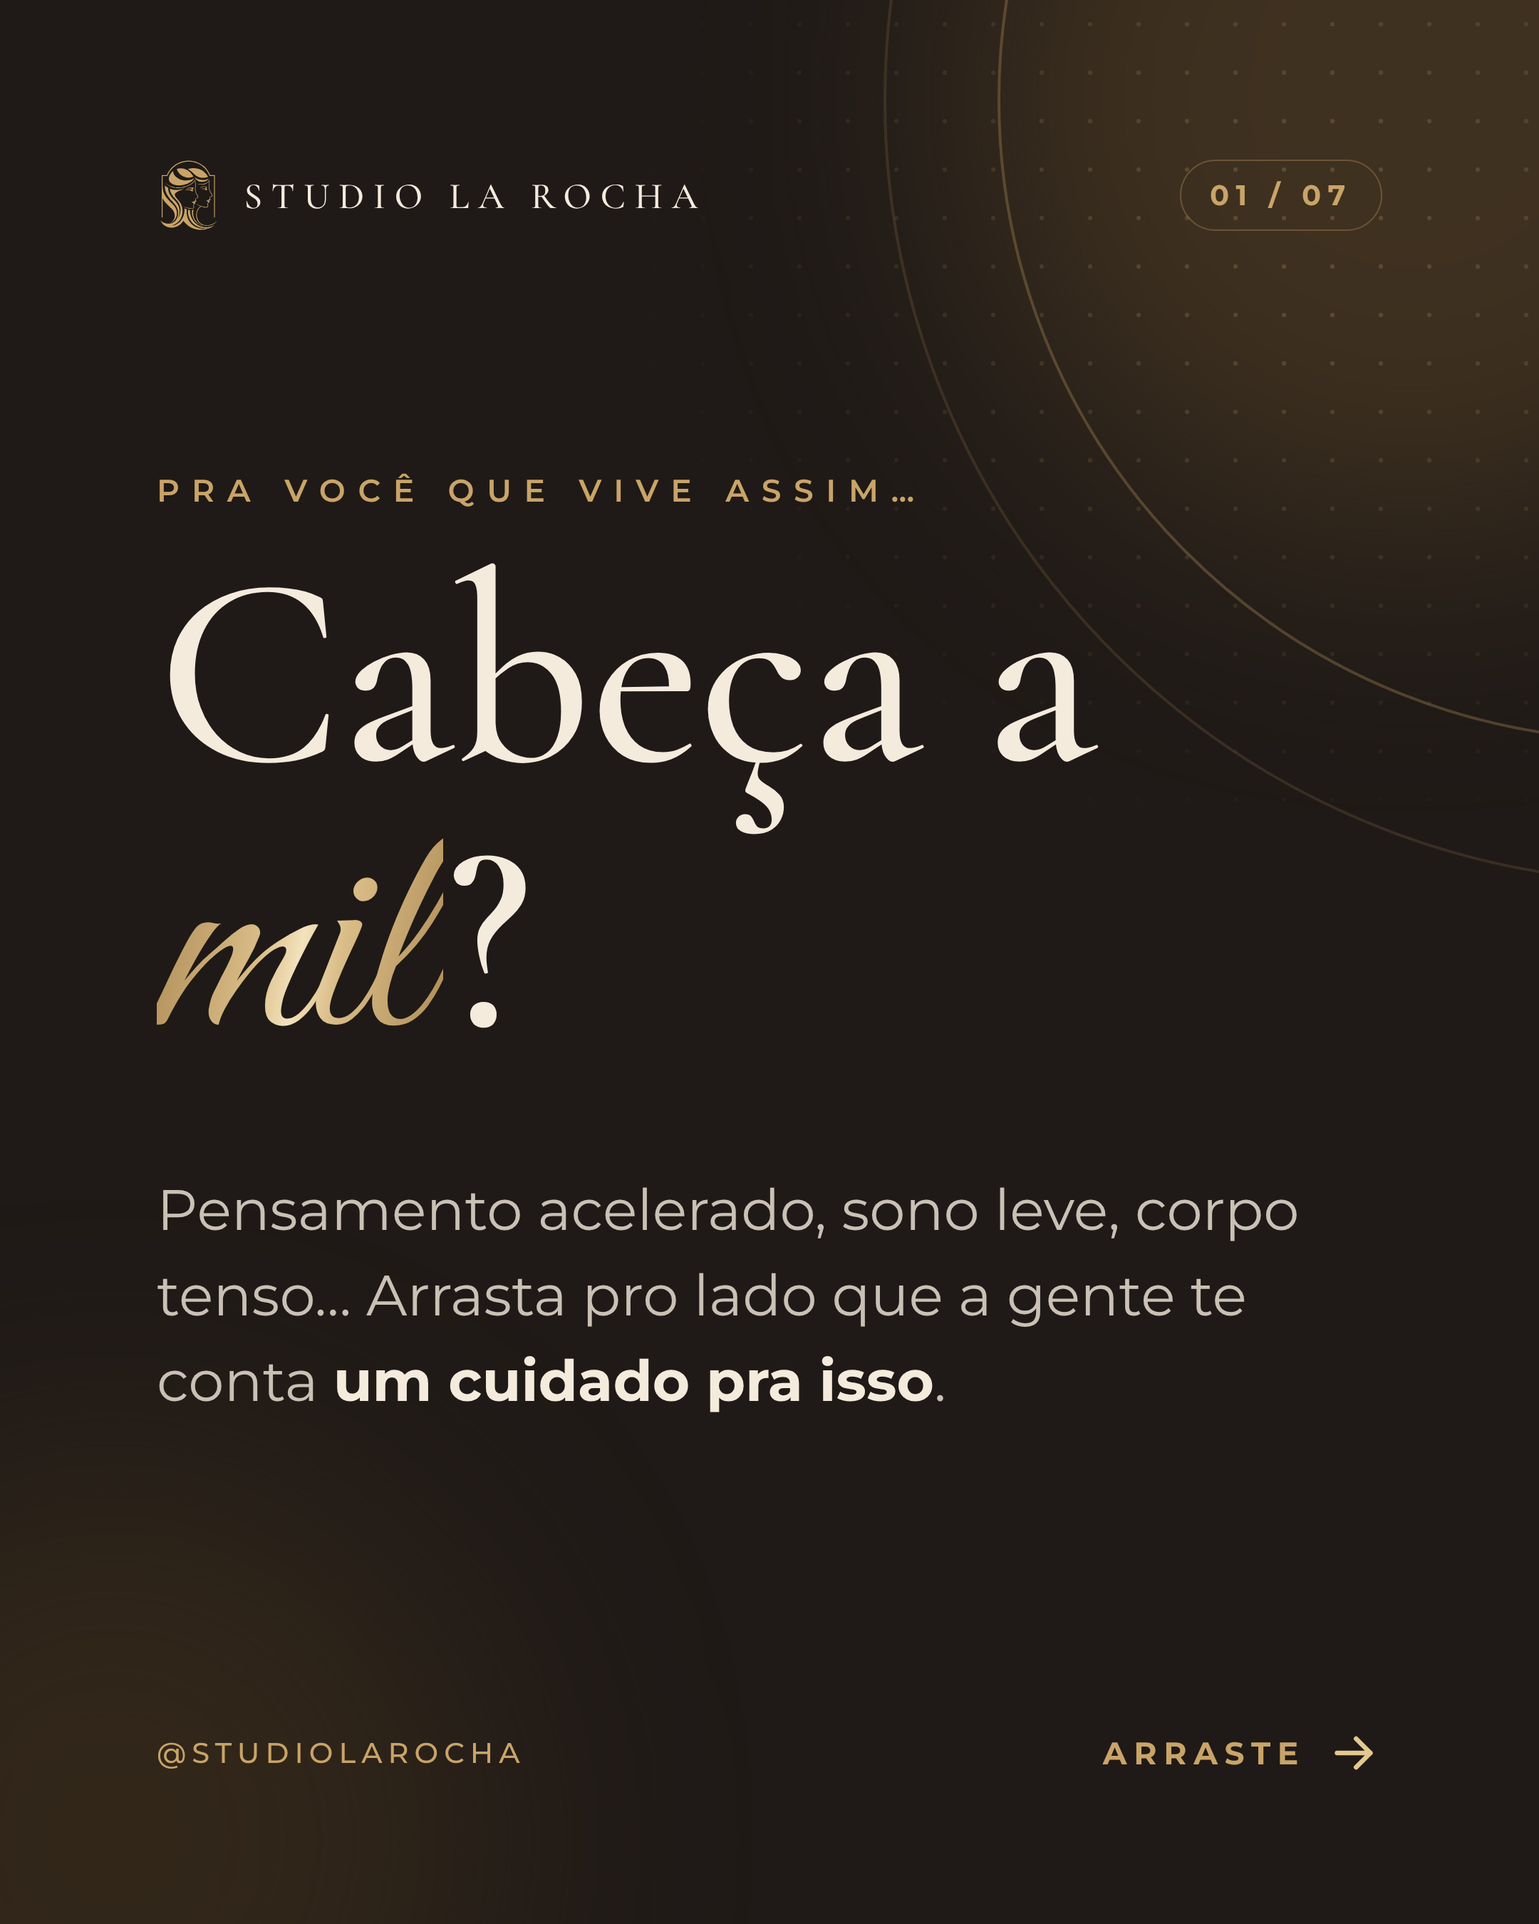
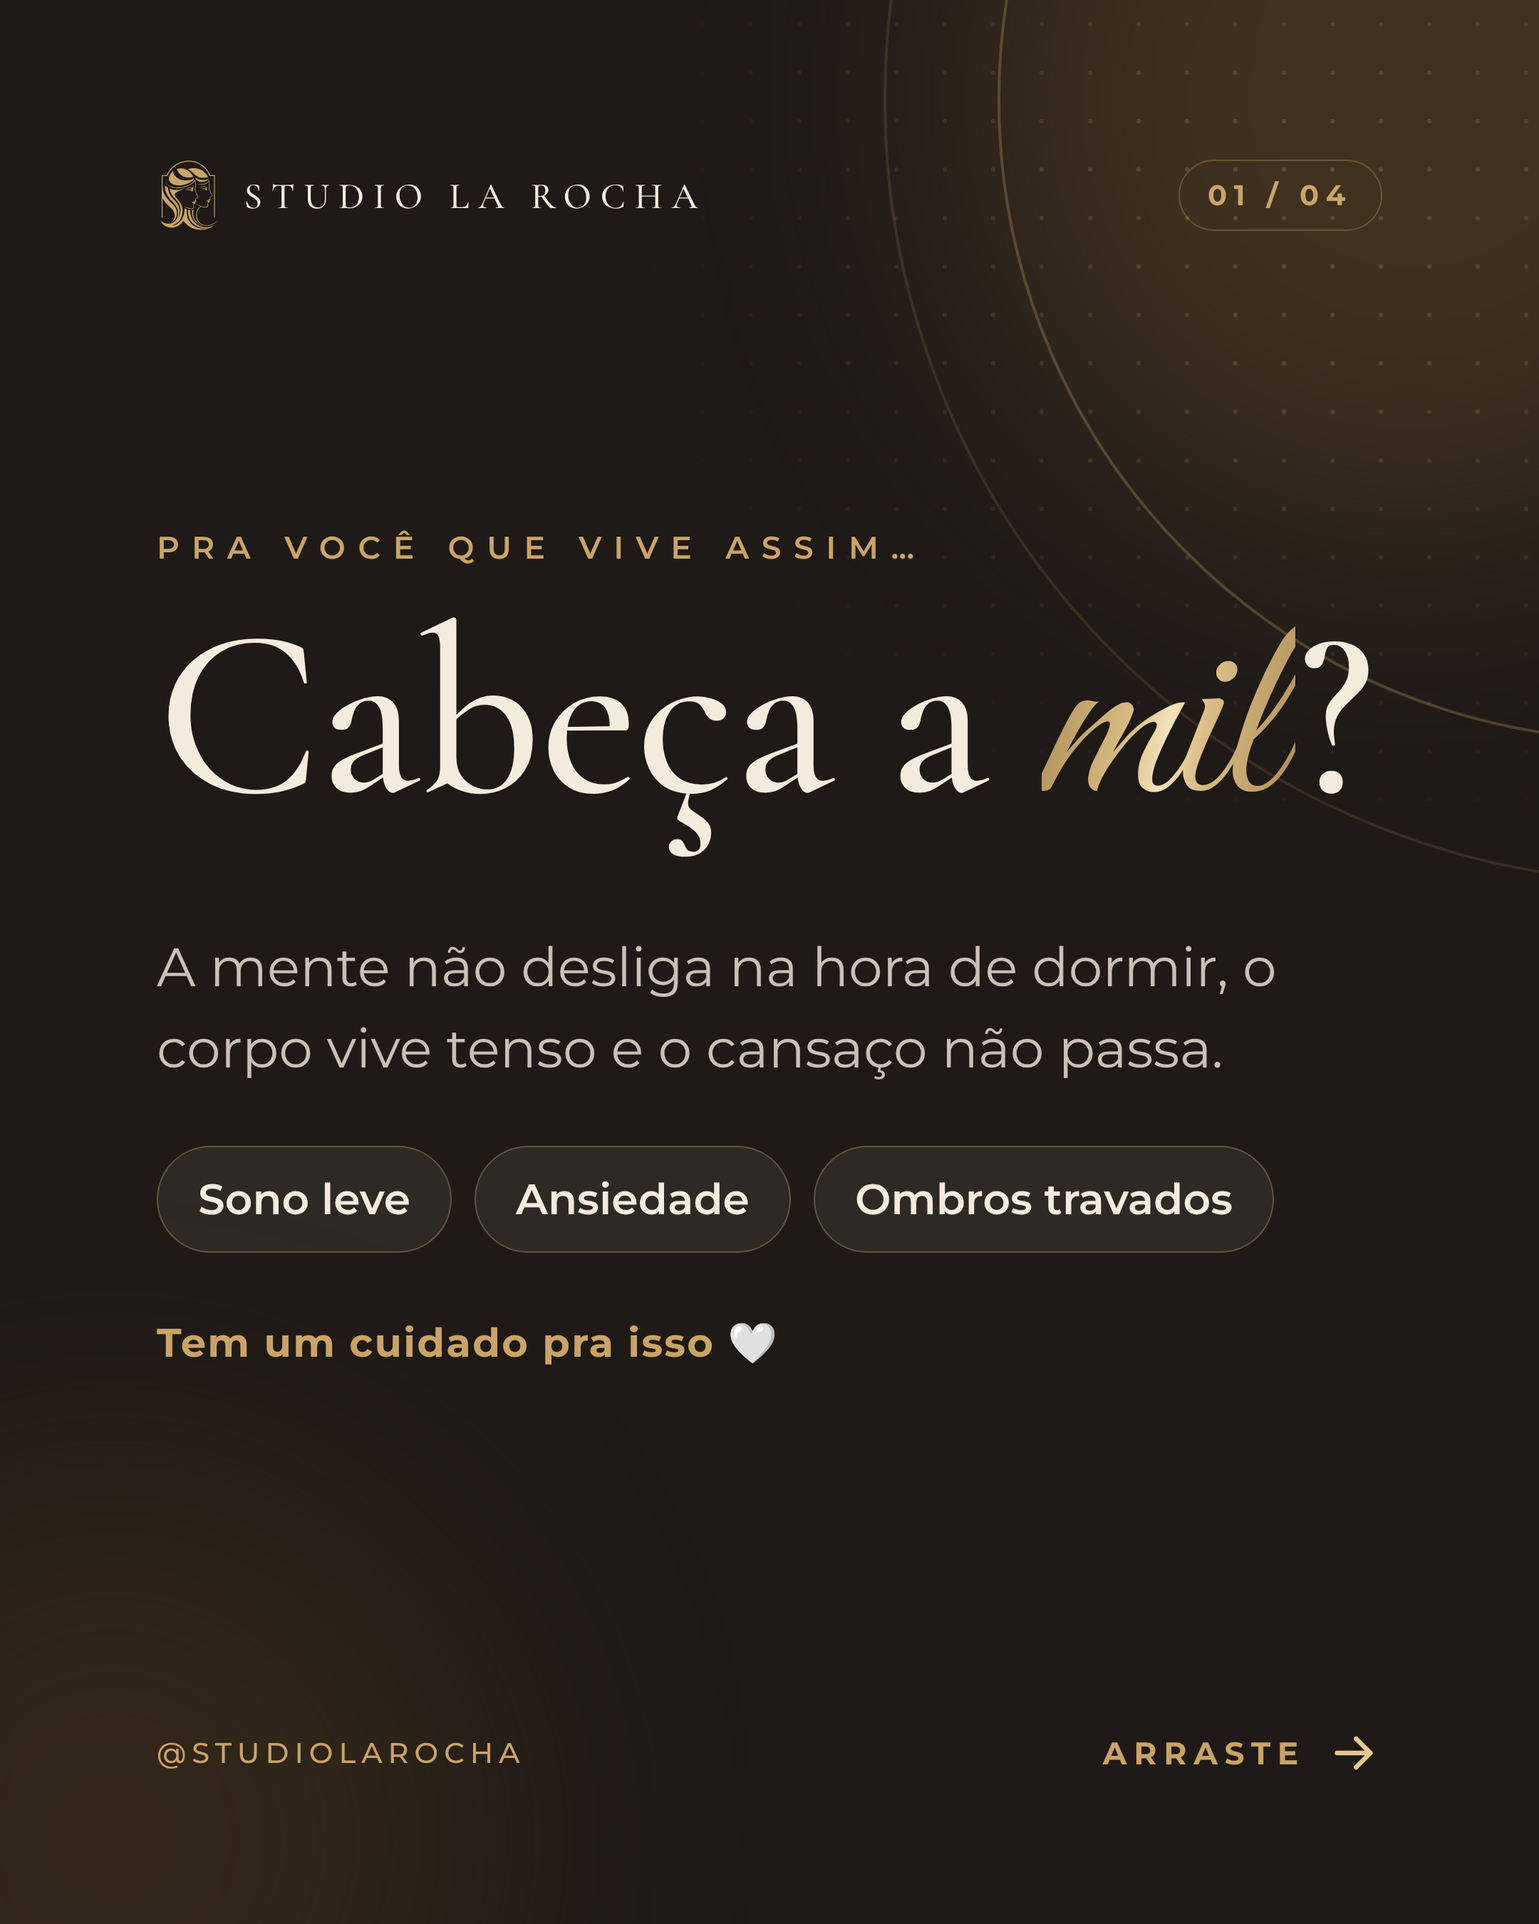
Carrossel 'Cabeça a mil?' enxugado para 4 slides, sem a palavra agulhas
Claude-Session: https://claude.ai/code/session_01XzVqx6kG6obyTxXfpJ6DA2

diff --git a/instagram/fonte/carrossel-cabeca.html b/instagram/fonte/carrossel-cabeca.html
@@ -242,31 +242,25 @@
   .mini-sabs small { font-weight: 800; font-size: 20px; letter-spacing: .2em; text-transform: uppercase; }
   .mini-sabs b { display: block; font-family: "Cormorant"; font-weight: 600; font-size: 96px; line-height: 1; font-feature-settings: "lnum" 1; }
   .k7 .cta { bottom: 170px; }
+  .chips { margin-top: 40px; display: flex; flex-wrap: wrap; gap: 16px; }
+  .chips span { padding: 18px 28px; border-radius: 99px; font-weight: 600; font-size: 30px; background: rgba(244,235,221,.07); border: 1.5px solid rgba(201,164,104,.35); color: var(--marfim); }
+  .quem { margin-top: 40px; font-weight: 600; font-size: 28px; letter-spacing: .02em; color: var(--ouro-c); }
 </style>
 </head>
 <body>
-<section class="post car escuro centro k1" id="k1"><i class="luz a"></i><i class="luz b"></i><div class="pontos"></div><div class="arco um"></div><div class="arco dois"></div><div class="topo"><div class="mini"><img src="simbolo-claro-transp.svg" alt="">STUDIO LA ROCHA</div><span class="pag">01 / 07</span></div><div class="rotulo">Pra você que vive assim…</div>
-<h2 class="gancho">Cabeça a <em>mil</em>?</h2>
-<p class="lead">Pensamento acelerado, sono leve, corpo tenso… Arrasta pro lado que a gente te conta <b>um cuidado pra isso</b>.</p><div class="marca-rod">@STUDIOLAROCHA</div><div class="arraste">Arraste<svg viewBox="0 0 24 24" fill="none" stroke="#E3C88F" stroke-width="2" stroke-linecap="round" stroke-linejoin="round"><path d="M5 12h14M13 6l6 6-6 6"/></svg></div></section>
-<section class="post car claro centro k2" id="k2"><i class="luz a"></i><i class="luz b"></i><div class="pontos"></div><div class="arco um"></div><div class="arco dois"></div><div class="topo"><div class="mini"><img src="simbolo-colorido.svg" alt="">STUDIO LA ROCHA</div><span class="pag">02 / 07</span></div><div class="rotulo">Você se reconhece?</div><h2 class="gancho" style="font-size:118px">Marque o que é <em>você</em></h2><div class="chk"><div><i><svg viewBox="0 0 24 24" fill="none" stroke="#1F1A17" stroke-width="2.6" stroke-linecap="round" stroke-linejoin="round"><path d="M5 12.5l4.5 4.5L19 7.5"/></svg></i>Deita e a mente não desliga</div><div><i><svg viewBox="0 0 24 24" fill="none" stroke="#1F1A17" stroke-width="2.6" stroke-linecap="round" stroke-linejoin="round"><path d="M5 12.5l4.5 4.5L19 7.5"/></svg></i>Acorda já cansada</div><div><i><svg viewBox="0 0 24 24" fill="none" stroke="#1F1A17" stroke-width="2.6" stroke-linecap="round" stroke-linejoin="round"><path d="M5 12.5l4.5 4.5L19 7.5"/></svg></i>Pescoço e ombros travados</div><div><i><svg viewBox="0 0 24 24" fill="none" stroke="#1F1A17" stroke-width="2.6" stroke-linecap="round" stroke-linejoin="round"><path d="M5 12.5l4.5 4.5L19 7.5"/></svg></i>Ansiedade no dia a dia</div></div><div class="rodape-txt">Marcou pelo menos um? Continua →</div><div class="marca-rod">@STUDIOLAROCHA</div><div class="arraste">Arraste<svg viewBox="0 0 24 24" fill="none" stroke="#9C7A45" stroke-width="2" stroke-linecap="round" stroke-linejoin="round"><path d="M5 12h14M13 6l6 6-6 6"/></svg></div></section>
-<section class="post car escuro centro k3" id="k3"><i class="luz a"></i><i class="luz b"></i><div class="pontos"></div><div class="arco um"></div><div class="arco dois"></div><div class="topo"><div class="mini"><img src="simbolo-claro-transp.svg" alt="">STUDIO LA ROCHA</div><span class="pag">03 / 07</span></div><div class="rotulo">Já ouviu falar de acupuntura?</div>
-<h2 class="gancho" style="font-size:118px">Aquela das <em>agulhas</em>…</h2>
-<p class="lead">Ela vem da <b>medicina tradicional chinesa</b> e trabalha pontos do corpo. A <b>auriculoterapia</b> é da mesma família, só que com um jeito mais simples de cuidar.</p>
-<div class="familia">Mesma origem, cuidado diferente 🤍</div><div class="marca-rod">@STUDIOLAROCHA</div><div class="arraste">Arraste<svg viewBox="0 0 24 24" fill="none" stroke="#E3C88F" stroke-width="2" stroke-linecap="round" stroke-linejoin="round"><path d="M5 12h14M13 6l6 6-6 6"/></svg></div></section>
-<section class="post car claro centro k4" id="k4"><i class="luz a"></i><i class="luz b"></i><div class="pontos"></div><div class="arco um"></div><div class="arco dois"></div><div class="topo"><div class="mini"><img src="simbolo-colorido.svg" alt="">STUDIO LA ROCHA</div><span class="pag">04 / 07</span></div><div class="rotulo">Lado a lado</div>
-<h2 class="gancho" style="font-size:112px">Qual a <em>diferença</em>?</h2>
-<div class="cmp">
-<div class="h"></div><div class="h">Acupuntura</div><div class="h au">Auriculoterapia</div>
-<div class="r">Origem</div><div>Medicina tradicional chinesa</div><div class="au">Medicina tradicional chinesa</div>
-<div class="r">Onde</div><div>Pontos pelo corpo todo</div><div class="au">Pontos da orelha</div>
-<div class="r">Como</div><div>Agulhas no corpo</div><div class="au">Estímulos pequenos e delicados na orelha</div>
-</div>
-<p class="mapa">Na medicina chinesa, a orelha é vista como um “mapa” do corpo.</p><div class="marca-rod">@STUDIOLAROCHA</div><div class="arraste">Arraste<svg viewBox="0 0 24 24" fill="none" stroke="#9C7A45" stroke-width="2" stroke-linecap="round" stroke-linejoin="round"><path d="M5 12h14M13 6l6 6-6 6"/></svg></div></section>
-<section class="post car escuro centro k5" id="k5"><i class="luz a"></i><i class="luz b"></i><div class="pontos"></div><div class="arco um"></div><div class="arco dois"></div><div class="topo"><div class="mini"><img src="simbolo-claro-transp.svg" alt="">STUDIO LA ROCHA</div><span class="pag">05 / 07</span></div><div class="rotulo">Por isso ela pode ajudar com</div><h2 class="gancho" style="font-size:118px">Um cuidado pra <em>desacelerar</em></h2><div class="pils"><div><svg viewBox="0 0 24 24" fill="none" stroke="#E3C88F" stroke-width="1.6" stroke-linecap="round" stroke-linejoin="round"><path d="M20 14.5A8 8 0 0 1 9.5 4a8 8 0 1 0 10.5 10.5z"/></svg>Sono</div><div><svg viewBox="0 0 24 24" fill="none" stroke="#E3C88F" stroke-width="1.6" stroke-linecap="round" stroke-linejoin="round"><path d="M5 19c0-8 5-14 15-14 0 10-6 15-14 15"/><path d="M5 19c3-5 6-8 10-10"/></svg>Ansiedade</div><div><svg viewBox="0 0 24 24" fill="none" stroke="#E3C88F" stroke-width="1.6" stroke-linecap="round" stroke-linejoin="round"><path d="M3 12c2-3 4-3 6 0s4 3 6 0 4-3 6 0"/><path d="M3 17c2-3 4-3 6 0s4 3 6 0 4-3 6 0"/></svg>Estresse</div><div><svg viewBox="0 0 24 24" fill="none" stroke="#E3C88F" stroke-width="1.6" stroke-linecap="round" stroke-linejoin="round"><path d="M12 20s-7-4.4-7-10a4 4 0 0 1 7-2.5A4 4 0 0 1 19 10c0 5.6-7 10-7 10z"/></svg>Tensões</div></div><p class="lead" style="font-size:32px">Um cuidado complementar, feito com calma e atenção.</p><div class="marca-rod">@STUDIOLAROCHA</div><div class="arraste">Arraste<svg viewBox="0 0 24 24" fill="none" stroke="#E3C88F" stroke-width="2" stroke-linecap="round" stroke-linejoin="round"><path d="M5 12h14M13 6l6 6-6 6"/></svg></div></section>
-<section class="post car claro centro k6" id="k6"><i class="luz a"></i><i class="luz b"></i><div class="pontos"></div><div class="arco um"></div><div class="arco dois"></div><div class="topo"><div class="mini"><img src="simbolo-colorido.svg" alt="">STUDIO LA ROCHA</div><span class="pag">06 / 07</span></div><div class="rotulo">Com quem?</div><h2 class="gancho" style="font-size:118px">Enfermeira <em>Amanda</em></h2><div class="perfil"><div><svg viewBox="0 0 24 24" fill="none" stroke="#9C7A45" stroke-width="1.6" stroke-linecap="round" stroke-linejoin="round"><path d="M12 3l7 3v5.5c0 4.4-3 8-7 9.5-4-1.5-7-5.1-7-9.5V6z"/><path d="M9 12l2 2 4-4"/></svg>Enfermeira · COREN-SP 617675</div><div><svg viewBox="0 0 24 24" fill="none" stroke="#9C7A45" stroke-width="1.6" stroke-linecap="round" stroke-linejoin="round"><path d="M12 20s-7-4.4-7-10a4 4 0 0 1 7-2.5A4 4 0 0 1 19 10c0 5.6-7 10-7 10z"/></svg>Trabalha com saúde mental</div><div><svg viewBox="0 0 24 24" fill="none" stroke="#9C7A45" stroke-width="1.6" stroke-linecap="round" stroke-linejoin="round"><circle cx="12" cy="8" r="4"/><path d="M4 21c1-4 4-6 8-6s7 2 8 6"/></svg>Atende só mulheres</div><div><svg viewBox="0 0 24 24" fill="none" stroke="#9C7A45" stroke-width="1.6" stroke-linecap="round" stroke-linejoin="round"><circle cx="12" cy="12" r="9"/><path d="M12 7v5l3 2"/></svg>Atendimento sem pressa, com biossegurança</div></div><div class="marca-rod">@STUDIOLAROCHA</div><div class="arraste">Arraste<svg viewBox="0 0 24 24" fill="none" stroke="#9C7A45" stroke-width="2" stroke-linecap="round" stroke-linejoin="round"><path d="M5 12h14M13 6l6 6-6 6"/></svg></div></section>
-<section class="post car escuro centro k7" id="k7"><i class="luz a"></i><i class="luz b"></i><div class="pontos"></div><div class="arco um"></div><div class="arco dois"></div><div class="topo"><div class="mini"><img src="simbolo-claro-transp.svg" alt="">STUDIO LA ROCHA</div><span class="pag">07 / 07</span></div><div class="rotulo">Sua cabeça merece uma pausa</div>
+<section class="post car escuro centro k1" id="k1"><i class="luz a"></i><i class="luz b"></i><div class="pontos"></div><div class="arco um"></div><div class="arco dois"></div><div class="topo"><div class="mini"><img src="simbolo-claro-transp.svg" alt="">STUDIO LA ROCHA</div><span class="pag">01 / 04</span></div><div class="rotulo">Pra você que vive assim…</div>
+<h2 class="gancho" style="font-size:168px;white-space:nowrap">Cabeça a <em>mil</em>?</h2>
+<p class="lead" style="font-size:38px">A mente não desliga na hora de dormir, o corpo vive tenso e o cansaço não passa.</p>
+<div class="chips"><span>Sono leve</span><span>Ansiedade</span><span>Ombros travados</span></div>
+<div class="rodape-txt" style="margin-top:46px">Tem um cuidado pra isso 🤍</div><div class="marca-rod">@STUDIOLAROCHA</div><div class="arraste">Arraste<svg viewBox="0 0 24 24" fill="none" stroke="#E3C88F" stroke-width="2" stroke-linecap="round" stroke-linejoin="round"><path d="M5 12h14M13 6l6 6-6 6"/></svg></div></section>
+<section class="post car claro centro k2" id="k2"><i class="luz a"></i><i class="luz b"></i><div class="pontos"></div><div class="arco um"></div><div class="arco dois"></div><div class="topo"><div class="mini"><img src="simbolo-colorido.svg" alt="">STUDIO LA ROCHA</div><span class="pag">02 / 04</span></div><div class="rotulo">Prima da acupuntura</div>
+<h2 class="gancho" style="font-size:112px">Conheça a <em>auriculoterapia</em></h2>
+<p class="lead">Ela vem da mesma tradição da acupuntura, a <b>medicina chinesa</b>. A diferença é que o cuidado é feito só em <b>pontos da orelha</b>, que funciona como um mapa do corpo.</p>
+<div class="familia">Simples, delicada e feita com calma 🤍</div><div class="marca-rod">@STUDIOLAROCHA</div><div class="arraste">Arraste<svg viewBox="0 0 24 24" fill="none" stroke="#9C7A45" stroke-width="2" stroke-linecap="round" stroke-linejoin="round"><path d="M5 12h14M13 6l6 6-6 6"/></svg></div></section>
+<section class="post car escuro centro k3" id="k3"><i class="luz a"></i><i class="luz b"></i><div class="pontos"></div><div class="arco um"></div><div class="arco dois"></div><div class="topo"><div class="mini"><img src="simbolo-claro-transp.svg" alt="">STUDIO LA ROCHA</div><span class="pag">03 / 04</span></div><div class="rotulo">Pode ajudar com</div><h2 class="gancho" style="font-size:118px">Um cuidado pra <em>desacelerar</em></h2><div class="pils"><div><svg viewBox="0 0 24 24" fill="none" stroke="#E3C88F" stroke-width="1.6" stroke-linecap="round" stroke-linejoin="round"><path d="M20 14.5A8 8 0 0 1 9.5 4a8 8 0 1 0 10.5 10.5z"/></svg>Sono</div><div><svg viewBox="0 0 24 24" fill="none" stroke="#E3C88F" stroke-width="1.6" stroke-linecap="round" stroke-linejoin="round"><path d="M5 19c0-8 5-14 15-14 0 10-6 15-14 15"/><path d="M5 19c3-5 6-8 10-10"/></svg>Ansiedade</div><div><svg viewBox="0 0 24 24" fill="none" stroke="#E3C88F" stroke-width="1.6" stroke-linecap="round" stroke-linejoin="round"><path d="M3 12c2-3 4-3 6 0s4 3 6 0 4-3 6 0"/><path d="M3 17c2-3 4-3 6 0s4 3 6 0 4-3 6 0"/></svg>Estresse</div><div><svg viewBox="0 0 24 24" fill="none" stroke="#E3C88F" stroke-width="1.6" stroke-linecap="round" stroke-linejoin="round"><path d="M12 20s-7-4.4-7-10a4 4 0 0 1 7-2.5A4 4 0 0 1 19 10c0 5.6-7 10-7 10z"/></svg>Tensões</div></div><div class="quem">Com a enfermeira Amanda<br><span style="font-weight:500;opacity:.8">COREN-SP 617675 · só para mulheres</span></div><div class="marca-rod">@STUDIOLAROCHA</div><div class="arraste">Arraste<svg viewBox="0 0 24 24" fill="none" stroke="#E3C88F" stroke-width="2" stroke-linecap="round" stroke-linejoin="round"><path d="M5 12h14M13 6l6 6-6 6"/></svg></div></section>
+<section class="post car escuro centro k4" id="k4"><i class="luz a"></i><i class="luz b"></i><div class="pontos"></div><div class="arco um"></div><div class="arco dois"></div><div class="topo"><div class="mini"><img src="simbolo-claro-transp.svg" alt="">STUDIO LA ROCHA</div><span class="pag">04 / 04</span></div><div class="rotulo">Sua cabeça merece uma pausa</div>
 <h2 class="gancho" style="font-size:118px">Bora <em>desacelerar</em>?</h2>
-<p class="lead">Dezembro: últimas vagas aos sábados com a enfermeira Amanda.</p>
+<p class="lead">As últimas vagas do ano são aos sábados. <b>Qual é o seu?</b></p>
 <div class="mini-sabs"><div><small>Sábado</small><b>12</b></div><div><small>Sábado</small><b>19</b></div></div>
 <div class="cta"><span>Agende pelo link da bio</span><svg viewBox="0 0 24 24" fill="none" stroke="#9C7A45" stroke-width="2" stroke-linecap="round" stroke-linejoin="round"><path d="M5 12h14M13 6l6 6-6 6"/></svg></div>
 <div class="aviso">Salve e mande pra uma amiga que vive com a cabeça a mil 💛</div></section>

diff --git a/CLAUDE.md b/CLAUDE.md
@@ -81,7 +81,7 @@ Todo texto (post, story, legenda, folheto, site) passa por esta revisão antes d
 - **Aviso de agenda da Amanda (nov/2026):** destaque em "Dezembro"; sábados 5 e 26 lotados, 12 e 19 com vagas (gatilho de escassez real, sem inventar); feed e story. Fonte `instagram/fonte/aviso-agenda.html` (lista `SABADOS` no topo do gerador, já gravada no HTML).
 - **3 posts de dicas** (`dica-1-pele`, `dica-2-unhas`, `dica-3-sono`; fonte `fonte/dicas.html`, `node exportar-dicas.cjs`): conteúdo para salvar/compartilhar. Dicas só gerais; Amanda revisa pele e sono, Sandra revisa unhas.
 - **Stories e carrossel (10/11):** pasta `instagram/stories/` (Story 1 "Qual o seu cansaço?" → auriculoterapia → link da agenda da Amanda; Story 2 "Corte ou cor?" da Sandra com caixinha, enquete e link do WhatsApp) e `instagram/carrossel-checklist/` (6 slides "Checklist de autocuidado"). Fonte `fonte/stories-carrossel.html` + `exportar-stories-carrossel.cjs`. Stories têm quadro tracejado com instrução discreta (qual figurinha colar e o texto/link), que fica escondida sob a figurinha; instruções e legenda no LEIA-ME (3e, 3f). Kevin preferiu beleza (corte/cor) em vez de "Pergunte à enfermeira".
-- **Carrossel "Cabeça a mil?" (10/11):** 7 slides em `instagram/carrossel-cabeca-a-mil/` (gancho → checklist "você se reconhece?" → acupuntura → tabela acupuntura x auriculoterapia → pode ajudar com → enfermeira Amanda → sábados 12 e 19 + agendar). Fonte `fonte/carrossel-cabeca.html`. Não dizer "sem agulhas" até a Amanda confirmar como ela faz (sementes/esferas/agulhas).
+- **Carrossel "Cabeça a mil?" (10/11, enxugado a pedido do Kevin):** 4 slides em `instagram/carrossel-cabeca-a-mil/` (gancho + sintomas → "Conheça a auriculoterapia", prima da acupuntura, pontos da orelha → pode ajudar com + enfermeira Amanda → sábados 12 e 19 + agendar). Fonte `fonte/carrossel-cabeca.html`. **Não usar a palavra "agulhas"** (pedido do Kevin) nem dizer "sem agulhas" sem a Amanda confirmar como atende. Carrosséis curtos (4 slides) são preferidos.
 - **Estratégia de vendas e crescimento:** `instagram/ESTRATEGIA.md` (5 tipos de post, ritmo, crescimento local, medição, o que não fazer). Seguir como guia de todo conteúdo novo.
 - Bio: `Studio La Rocha | Salão em Mauá` / "Beleza, saúde e bem-estar ✨ / Cabelo · Unhas · Auriculoterapia · Limpeza de pele / Por @sandraaparecida5566 e @amandarochaat / 📍 Mauá - SP · Agende 👇". Trocar o link da bio e do WhatsApp Business para o domínio (HTTPS).
 - Próximo passo estratégico: **dia de fotos** (Sandra + Amanda juntas, retratos individuais, espaço/cadeiras/lavatório/maca, vídeo curto de 10–15s) e então carrossel, Reels e destaques com foto. Perfil só com arte ainda parece "vazio".
